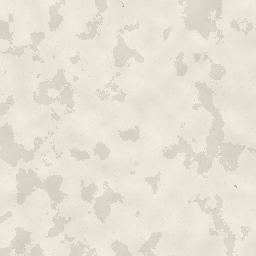
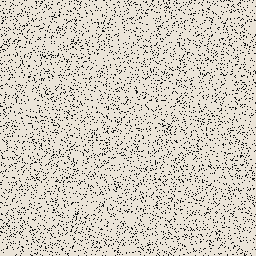
Sharpen printed-logic grain and side ornaments.
Swap the cloudy grain tile for even 1px dots at low overlay opacity, and replace baked-noise bars/warp PNGs with hard-edge SVGs. Leave gutters, homepage, and later day skins untouched.

diff --git a/css/themes/printed-logic.css b/css/themes/printed-logic.css
@@ -11,12 +11,29 @@
   --leave: 280ms ease;
 }
 
-html,
-body {
+html {
+  position: relative;
+  min-height: 100%;
   background-color: var(--paper);
+}
+
+html::before {
+  content: "";
+  position: absolute;
+  inset: 0;
+  pointer-events: none;
+  z-index: 0;
   background-image: url("printed-logic/grain.png");
   background-repeat: repeat;
   background-attachment: scroll;
+  opacity: 0.22;
+  mix-blend-mode: multiply;
+}
+
+body {
+  position: relative;
+  z-index: 1;
+  background-color: transparent;
   color: var(--ink);
 }
 
@@ -67,12 +84,13 @@ a:focus-visible {
 
 .pl-bar {
   grid-column: 1;
-  background-image: url("printed-logic/bars.png");
+  background-image: url("printed-logic/bars.svg");
+  image-rendering: crisp-edges;
 }
 
 .pl-warp {
   grid-column: 3;
-  background-image: url("printed-logic/warp.png");
+  background-image: url("printed-logic/warp.svg");
 }
 
 .day {
@@ -341,14 +359,8 @@ a:focus-visible {
 }
 
 @keyframes pl-print {
-  from {
-    opacity: 0;
-    filter: contrast(0.35);
-  }
-  to {
-    opacity: 1;
-    filter: contrast(1);
-  }
+  from { opacity: 0; }
+  to { opacity: 1; }
 }
 
 @keyframes pl-dots {
